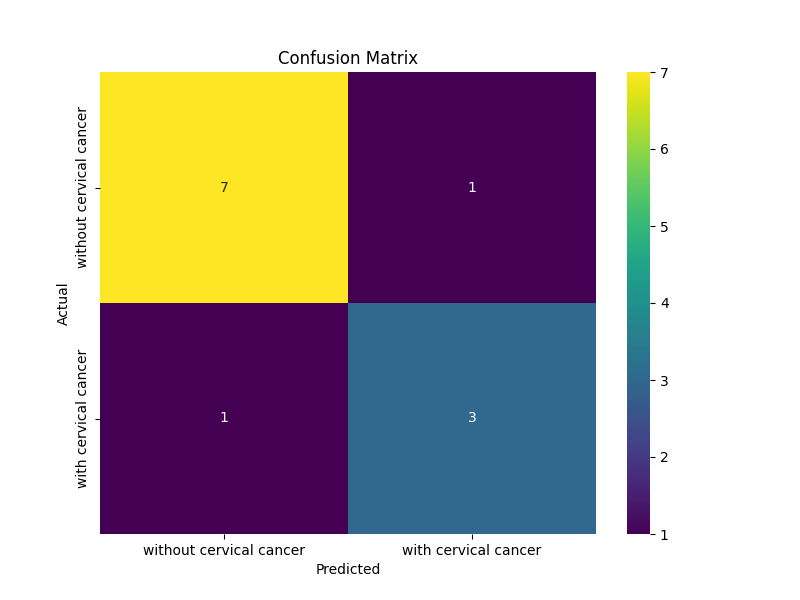
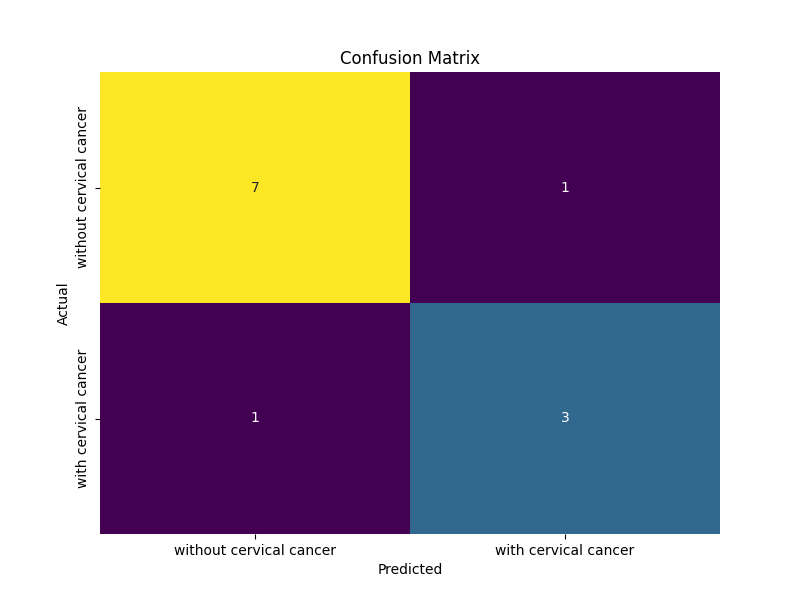
updated: removed colorbar from confusion matrix
removed colorbar from confusion matrix

Changed region(s): [[0.1875, 0.09, 0.9062, 0.96]]

diff --git a/MNA_MLOps_Eq34/src/mlflow_integation_yaml.py b/MNA_MLOps_Eq34/src/mlflow_integation_yaml.py
@@ -95,7 +95,7 @@ class CervicalCancerModel:
             print(cm_df)
             # Guardar la matriz de confusión como una imagen
             plt.figure(figsize=(8, 6))
-            sns.heatmap(cm_df, annot=True, fmt='d', cmap=config_params["reports"]["cmap"])
+            sns.heatmap(cm_df, annot=True, fmt='d', cmap=config_params["reports"]["cmap"], cbar = config_params["reports"]["colorbar"] ) 
             plt.title('Confusion Matrix')
             plt.ylabel('Actual')
             plt.xlabel('Predicted')
